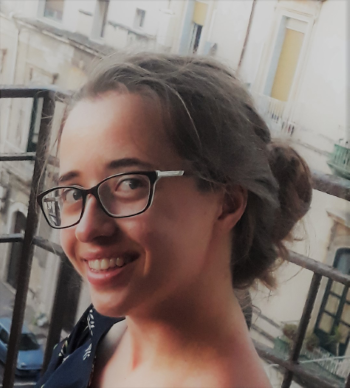
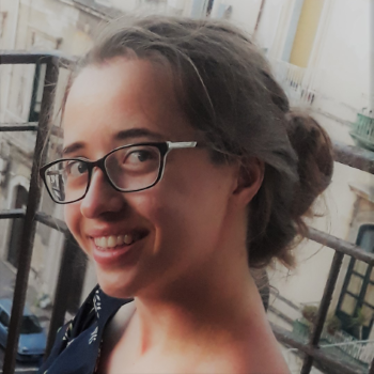
update team pics

diff --git a/page-team.md b/page-team.md
@@ -35,8 +35,8 @@ show_sidebar: false
 <a name="hannes"></a>
 {% include speaker-card.html
   avatarurl="hannes.png"
-  profilename="Sofie Van Den Bossche"
-  affiliation="Ghent University <br>Ghent, Belgium"
+  profilename="Hannes Almgren"
+  affiliation="Ghent University <br>Belgium"
   git="halmgren"
   twitter="Hannes_Almgren"%}  
 
@@ -45,7 +45,7 @@ show_sidebar: false
 {% include speaker-card.html
   avatarurl="sofie.png"
   profilename="Sofie Van Den Bossche"
-  affiliation="Ghent University <br>Ghent, Belgium"
+  affiliation="Ghent University <br>Belgium"
   git="sofievdbos"
   twitter="sofie_vdbos"%}
 
